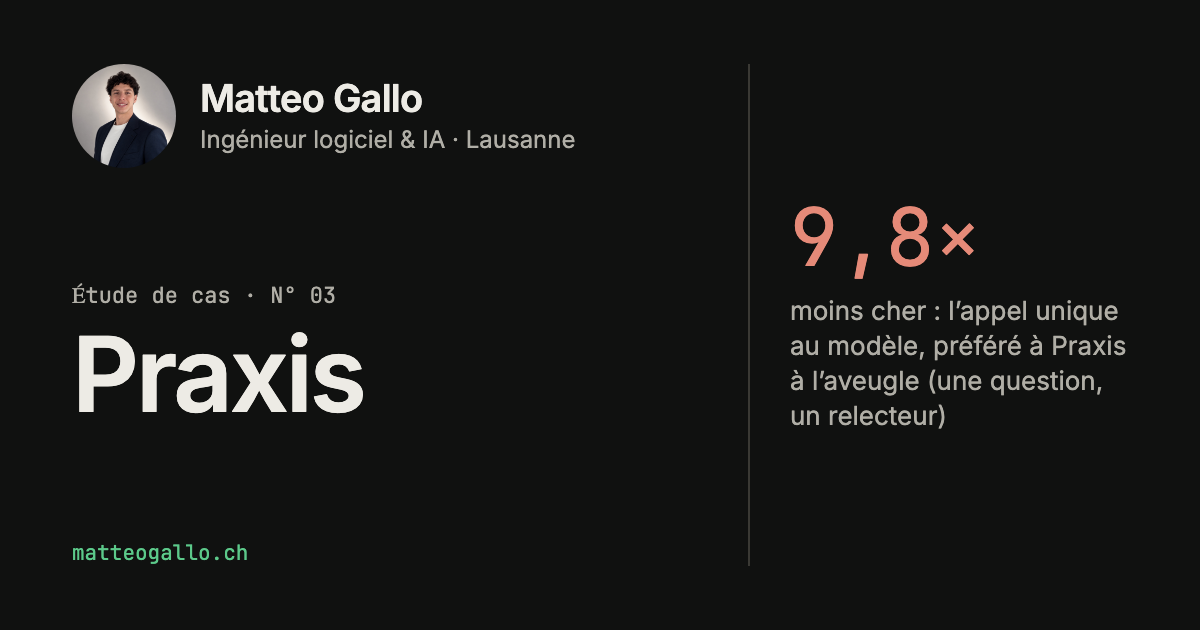
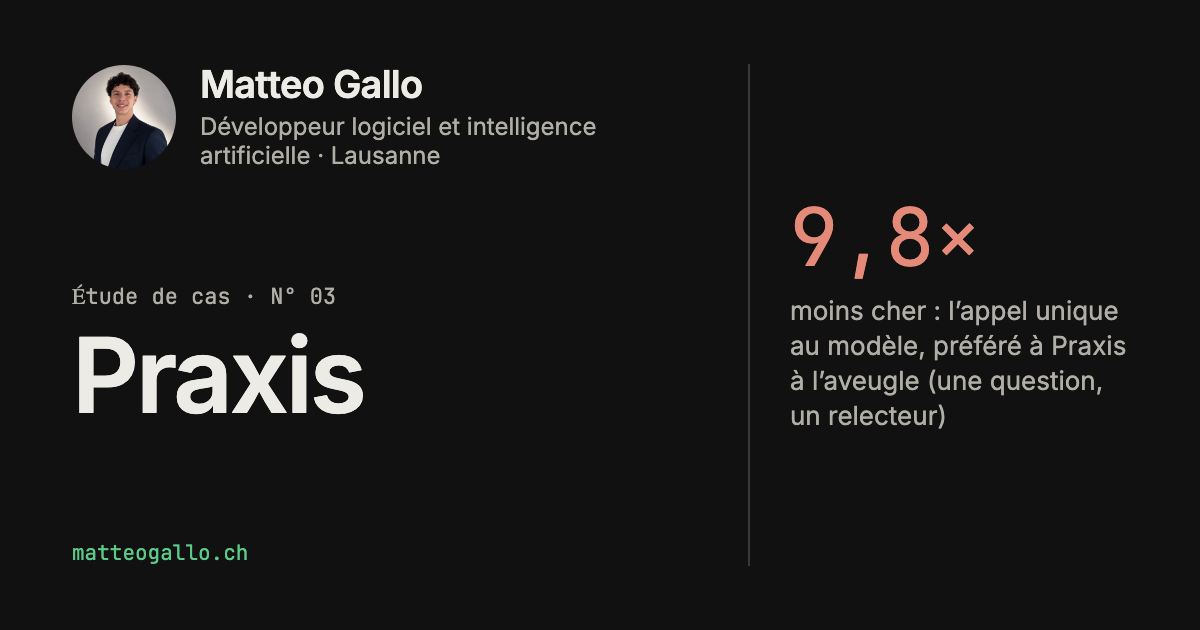
fix(copy): title becomes Software & AI Developer
"Ingénieur" implies a degree in French: the role, title, 404, JSON-LD,
bio, contact heading, meta description and OG images now say
"Développeur logiciel et intelligence artificielle" / "Software & AI
Developer", with the new promise, a specialty line and the new status.

The headline line budget follows the measured French promise (7 lines
at 1440 px, 8 at 375 px), and a new test keeps the hero's buttons in
the first screen at 1280x800. The OG headline is drawn at 44 px so the
French promise fits beside the figures. The French meta description
uses "logiciel et IA" to stay under 160 characters.

diff --git a/tests/home.spec.ts b/tests/home.spec.ts
@@ -8,11 +8,12 @@ import { plain } from "../scripts/typography.ts";
 const WORDS = {
   fr: {
     path: "/",
-    title: "Matteo Gallo — Ingénieur logiciel & IA",
-    description: "Matteo Gallo, ingénieur logiciel et IA à Lausanne. Je construis des systèmes à base de LLM et je mesure s'ils tiennent leurs promesses.",
-    role: "Ingénieur logiciel & IA · Lausanne",
-    status: "Disponible pour un poste",
-    h1: "Je construis des systèmes à base de LLM, et je mesure s'ils tiennent leurs promesses.",
+    title: "Matteo Gallo — Développeur logiciel et intelligence artificielle",
+    description: "Matteo Gallo, développeur logiciel et IA à Lausanne : automatisation des processus métier, des systèmes mesurés et publiés avec leurs défauts.",
+    role: "Développeur logiciel et intelligence artificielle · Lausanne",
+    specialty: "Automatisation des processus métier",
+    status: "Disponible pour des projets ou un poste",
+    h1: "Je conçois des logiciels et des systèmes d'IA qui automatisent les processus métier des entreprises, de la conception à la mise en production.",
     message: "Recherche documentaire qui cite ou refuse, langage typé pour prompts : chaque résultat publié avec sa preuve.",
     actions: ["Voir les projets", "Me contacter"],
     projects: [
@@ -32,7 +33,7 @@ const WORDS = {
       ["Évaluation pré-enregistrée", "Échantillon tiré avec une graine fixe et enregistré dans le dépôt avant l'annotation. Le résultat est publié tel quel, même défavorable : 12 signalements justes sur 40.", "PR promptlang#39"],
     ],
     bio: [
-      "Ingénieur logiciel et IA basé à Lausanne. Je construis des systèmes à base de LLM, avec leurs tests, leurs évaluations et leurs mesures publiées.",
+      "Développeur logiciel et intelligence artificielle basé à Lausanne. Je conçois des logiciels et des systèmes d'IA, avec leurs tests, leurs évaluations et leurs mesures publiées.",
       "Développement assisté par agents de code : je spécifie, je relis les PR et leurs tests, et je réponds de ce qui est fusionné.",
       "Formation d'automaticien à l'ETML (école des métiers), interrompue en deuxième année pour me consacrer au développement logiciel.",
       "Langues : français et italien (maternelles), anglais (intermédiaire), espagnol (notions).",
@@ -43,11 +44,12 @@ const WORDS = {
   },
   en: {
     path: "/en/",
-    title: "Matteo Gallo — Software & AI Engineer",
-    description: "Matteo Gallo, software and AI engineer in Lausanne. I build LLM systems and measure whether they deliver.",
-    role: "Software & AI Engineer · Lausanne",
-    status: "Available for a role",
-    h1: "I build LLM systems and measure whether they deliver.",
+    title: "Matteo Gallo — Software & AI Developer",
+    description: "Matteo Gallo, software and AI developer in Lausanne: business process automation, with systems measured and published with their defects.",
+    role: "Software & AI Developer · Lausanne",
+    specialty: "Business process automation",
+    status: "Available for projects or a role",
+    h1: "I build software and AI systems that automate business processes, from design to production.",
     message: "Document search that cites or refuses, a typed language for prompts: every result published with its proof.",
     actions: ["See the projects", "Get in touch"],
     projects: [
@@ -67,7 +69,7 @@ const WORDS = {
       ["Pre-registered evaluation", "Sample drawn with a fixed seed and committed before annotation. The result is published as is, even when unfavourable: 12 of 40 flags correct.", "PR promptlang#39"],
     ],
     bio: [
-      "Software and AI engineer based in Lausanne. I build LLM systems, with their tests, evaluations and published measurements.",
+      "Software and AI developer based in Lausanne. I build software and AI systems, with their tests, evaluations and published measurements.",
       "Built with coding agents: I write the specs, review the pull requests and their tests, and answer for what gets merged.",
       "I trained as an automation technician at ETML (vocational school) and left in the second year to focus on software.",
       "Languages: French and Italian (native), English (intermediate), Spanish (basic).",
@@ -87,11 +89,12 @@ for (const [lang, w] of Object.entries(WORDS)) {
     expect(plain(await page.title())).toBe(plain(w.title));
     expect(plain((await page.locator('meta[name="description"]').getAttribute("content")) ?? "")).toBe(w.description);
     expect(await texts(page, ".hero .role")).toEqual([w.role]);
+    expect(await texts(page, ".hero .specialty")).toEqual([w.specialty]);
     expect(await texts(page, ".hero .status")).toEqual([w.status]);
     expect(await texts(page, "h1")).toEqual([w.h1]);
-    // A recruiter may not read "LLM": its first use on the page says what it stands for.
-    await expect(page.locator("main abbr").first()).toHaveText("LLM");
-    await expect(page.locator("h1 abbr")).toHaveAttribute("title", lang === "fr" ? "grand modèle de langage" : "large language model");
+    // A recruiter may not read "LLM", and the home page no longer says it: bringing it back means
+    // an <abbr> saying what it stands for at its first use, and an assertion here for it.
+    expect(await page.locator("main").innerText()).not.toMatch(/\bLLM\b/);
     // Search results cut a description near 160 characters.
     expect(w.description.length).toBeLessThanOrEqual(160);
     expect(await texts(page, ".hero .message")).toEqual([w.message]);

diff --git a/tests/layout.spec.ts b/tests/layout.spec.ts
@@ -362,10 +362,12 @@ for (const width of [375, 1440]) {
   });
 }
 
-// The headline is the first thing read: at 7 lines on a 1440 px screen it pushed the message and
-// the buttons down. Lines are counted from the text's own boxes, not its height, once the site's
-// fonts are in: a narrower fallback would pass with fewer lines.
-for (const [width, most] of [[1440, 4], [375, 5]] as const) {
+// The headline is the first thing read. The budget is the measured length of the French promise,
+// a full sentence: 7 lines at 1440 px, 8 at 375 px; a longer one fails here, and the test below
+// keeps the buttons in the first screen whatever the headline's length. Lines are
+// counted from the text's own boxes, not its height, once the site's fonts are in: a narrower
+// fallback would pass with fewer lines.
+for (const [width, most] of [[1440, 7], [375, 8]] as const) {
   for (const path of ["/", "/en/"]) {
     test(`${path} at ${width} px: the headline holds in ${most} lines or fewer`, async ({ page }) => {
       await page.setViewportSize({ width, height: 900 });
@@ -380,4 +382,15 @@ for (const [width, most] of [[1440, 4], [375, 5]] as const) {
       expect(lines).toBeGreaterThan(0);
     });
   }
+}
+
+// Whatever the headline's length, the two buttons stay in the first screen of a common laptop.
+for (const path of ["/", "/en/"]) {
+  test(`${path} at 1280×800: the hero's buttons are in the first screen`, async ({ page }) => {
+    await page.setViewportSize({ width: 1280, height: 800 });
+    await page.goto(path);
+    await page.evaluate(() => document.fonts.ready);
+    const bottom = await page.locator(".hero .actions").evaluate((el) => el.getBoundingClientRect().bottom);
+    expect(bottom).toBeLessThanOrEqual(800);
+  });
 }

diff --git a/src/lib/og.ts b/src/lib/og.ts
@@ -11,16 +11,16 @@ export const OG = {
   /** The site's dark tokens: a light card disappears in a white feed (LinkedIn). */
   scheme: "dark",
   name: "Matteo Gallo",
-  role: { fr: "Ingénieur logiciel & IA · Lausanne", en: "Software & AI Engineer · Lausanne" },
+  role: { fr: "Développeur logiciel et intelligence artificielle · Lausanne", en: "Software & AI Developer · Lausanne" },
   fr: {
     file: "public/og.png",
-    headline: "Je construis des systèmes à base de LLM, et je mesure s’ils tiennent leurs promesses.",
-    alt: "Matteo Gallo, ingénieur logiciel et IA à Lausanne : « Je construis des systèmes à base de LLM, et je mesure s’ils tiennent leurs promesses. »",
+    headline: "Je conçois des logiciels et des systèmes d’IA qui automatisent les processus métier des entreprises, de la conception à la mise en production.",
+    alt: "Matteo Gallo, développeur logiciel et intelligence artificielle à Lausanne : « Je conçois des logiciels et des systèmes d’IA qui automatisent les processus métier des entreprises, de la conception à la mise en production. »",
   },
   en: {
     file: "public/og-en.png",
-    headline: "I build LLM systems and measure whether they deliver.",
-    alt: "Matteo Gallo, software and AI engineer in Lausanne: “I build LLM systems and measure whether they deliver.”",
+    headline: "I build software and AI systems that automate business processes, from design to production.",
+    alt: "Matteo Gallo, software and AI developer in Lausanne: “I build software and AI systems that automate business processes, from design to production.”",
   },
   /** The home page's project cards, drawn beside the headline: one figure each, as the card shows it. */
   figures: [

diff --git a/scripts/og.ts b/scripts/og.ts
@@ -71,7 +71,8 @@ function page(image: OgImage): string {
   img { width: 104px; height: 104px; border-radius: 50%; }
   .name { font-size: 38px; font-weight: 600; letter-spacing: var(--track-44); line-height: 1.1; }
   .role { font-size: 24px; color: var(--graphite); margin-top: 6px; }
-  h1 { margin: 0; font-size: 60px; font-weight: 600; letter-spacing: var(--track-68); line-height: 1.08; text-wrap: balance; }
+  /* 44 px: the home headline is a full sentence (142 characters in French) and must fit beside the figures. */
+  h1 { margin: 0; font-size: 44px; font-weight: 600; letter-spacing: var(--track-68); line-height: 1.1; text-wrap: balance; }
   h1.case-name { font-size: 104px; letter-spacing: var(--track-68); line-height: 1; margin-top: 12px; }
   .kind { font-family: "JetBrains Mono"; font-size: 22px; color: var(--graphite); }
   .site { font-family: "JetBrains Mono"; font-size: 21px; color: var(--proof-text); }

diff --git a/tests/seo.spec.ts b/tests/seo.spec.ts
@@ -232,7 +232,7 @@ for (const image of ogImages()) {
 
 // Search engines read who the site is about from a Person record on each home page. It is an
 // inline script like any other: the build hashes it into the security policy.
-for (const [path, jobTitle] of [["/", "Ingénieur logiciel & IA"], ["/en/", "Software & AI Engineer"]] as const) {
+for (const [path, jobTitle] of [["/", "Développeur logiciel et intelligence artificielle"], ["/en/", "Software & AI Developer"]] as const) {
   test(`${path}: a JSON-LD Person names the author, his role and profiles, and its hash is in the policy`, async ({ page }) => {
     await page.goto(path);
     const blocks = page.locator('script[type="application/ld+json"]');

diff --git a/tests/built-html.spec.ts b/tests/built-html.spec.ts
@@ -150,8 +150,8 @@ for (const file of files) {
 
 // M1: the French 404 names the role in French.
 test("404.html: the role reads in French", () => {
-  expect(html("404.html")).toContain("Matteo Gallo · Ingénieur logiciel &amp; IA");
-  expect(html("404.html")).not.toContain("Software &amp; AI Engineer");
+  expect(html("404.html")).toContain("Matteo Gallo · Développeur logiciel et intelligence artificielle");
+  expect(html("404.html")).not.toContain("Software &amp; AI Developer");
 });
 
 // D4: the English refusal rationale is the trace's own text, internal reference included; a short

diff --git a/scripts/gaps.test.ts b/scripts/gaps.test.ts
@@ -3,7 +3,7 @@ import { test } from "node:test";
 import { gapsIn } from "./gaps.ts";
 
 test("a page with no placeholder has no gap", () => {
-  assert.deepEqual(gapsIn('<h1>Matteo Gallo — Software &amp; AI Engineer</h1><p>Contact : <a href="mailto:a@b.c">a@b.c</a></p>'), []);
+  assert.deepEqual(gapsIn('<h1>Matteo Gallo — Software &amp; AI Developer</h1><p>Contact : <a href="mailto:a@b.c">a@b.c</a></p>'), []);
 });
 
 test("every placeholder form is reported, with its text", () => {

diff --git a/docs/SPEC.md b/docs/SPEC.md
@@ -4,7 +4,7 @@ The reference specification for this site: structure, visual system, content
 rules, technique and accessibility.
 
 ## 1. Goal and reader
-- **Reader:** a technical lead hiring a software/AI engineer, who decides within 30 seconds.
+- **Reader:** a technical lead or a company looking for a software/AI developer, who decides within 30 seconds.
 - **What the site does:** confirm, not sell. One screen answers who, what, the proof, and how to get in touch.
 - **Single message:** "I build AI products you can verify." Complete products, every measure published, defects included.
 - The site proves by demonstration, not by effect.
@@ -24,12 +24,12 @@ Plain text on the left, one strong visual on the right: Verity working on a cont
 ### 3.1 Home `/`
 1. **Navigation:** floating glass pill. Projects · Method · About, and the FR | EN selector; Writing joins it once an article exists. On the other pages the selector sits in the header.
 2. **First screen:** sober, readable by a recruiter in 30 seconds; no band of figures.
-   - Left, in small type: the **portrait** (56 px, round), the name, « Ingénieur logiciel & IA · Lausanne » / "Software & AI Engineer · Lausanne" and the status « Disponible pour un poste » / "Available for a role" (green dot). Then the headline, 32 px at 375 px to 38 px from 1440 px, in at most 5 lines at 375 px and 4 at 1440 px: « Je construis des systèmes à base de LLM, et je mesure s’ils tiennent leurs promesses. » (EN: "I build LLM systems and measure whether they deliver."), its « LLM » an `<abbr>` titled « grand modèle de langage » (“large language model”), the first on the page. Under it: « Recherche documentaire qui cite ou refuse, langage typé pour prompts : chaque résultat publié avec sa preuve. », and the buttons « Voir les projets » and « Me contacter » (“Get in touch”), the second leading to the contact section.
+   - Left, in small type: the **portrait** (56 px, round), the name, « Développeur logiciel et intelligence artificielle · Lausanne » / "Software & AI Developer · Lausanne", the specialty « Automatisation des processus métier » / "Business process automation" in the same small type, and the status « Disponible pour des projets ou un poste » / "Available for projects or a role" (green dot). Then the headline, 32 px at 375 px to 38 px from 1440 px, in at most 8 lines at 375 px and 7 at 1440 px, the buttons under it still in the first screen at 1280 × 800: « Je conçois des logiciels et des systèmes d’IA qui automatisent les processus métier des entreprises, de la conception à la mise en production. » (EN: "I build software and AI systems that automate business processes, from design to production."). Under it: « Recherche documentaire qui cite ou refuse, langage typé pour prompts : chaque résultat publié avec sa preuve. », and the buttons « Voir les projets » and « Me contacter » (“Get in touch”), the second leading to the contact section.
    - Right: the Verity demo (section 2).
 3. **Projects:** 2 cards (Verity, PromptLang; no calibre number), each with **a real screenshot or GIF** of the product and a one-line caption (« Démo enregistrée : … Voir le GIF ↗ »; the detail is in the alt text), one sentence opening with what the project is technically (no jargon left unexplained, except PromptLang's, which names its terms bare, as its case study's first sentence does: « Compilateur pour un langage typé de prompts : génère du code TypeScript et Python, publié sur npm. », EN "A compiler for a typed prompt language: generates TypeScript and Python, published on npm."), **one** figure linked to its proof and written with what it is compared with (a baseline, a sample size), and at the foot a secondary button « Lire l’étude de cas → » beside « Code sur GitHub ↗ ». Verity's figure is the pre-registered comparison with « la même chaîne sans contrôles » (“the same pipeline without checks”), its p kept on the case study; PromptLang's, its mutation score in whole percents with the number of mutants it is taken over. Limits and technologies live on the case studies. The whole card opens its case study (its title is the link, stretched over the card; the links it holds stay their own, above it); under the pointer it rises 2 px and its border darkens, and keyboard focus rings the whole card. The other figures stay on the case studies. Under the cards, a short « Expériences » (“Experiments”) list: one line per project whose result did not hold, linking to its case study and to the published result; Praxis's reads « Praxis — pipeline d’analyse en 7 étapes ; comparé à l’aveugle, sur une question, à un appel unique 9,8× moins cher : le relecteur a préféré l’appel unique. Résultat publié. » (EN: "Praxis — a 7-stage analysis pipeline; compared blind, on one question, with a single call 9.8× cheaper: the reviewer preferred the single call. Result published."), its two figures linked to their proof. Its case study stays, the result among its known limits.
 4. **Method:** 3 cards side by side with noun titles (« Audit à froid », « Lecture des sorties réelles », « Évaluation pré-enregistrée »; EN “Cold audit”: an AI agent the author ran, not an independent auditor), the real incident behind each in at most two sentences and the link to its PR. Link to the repository.
 5. **Writing:** dated list of published articles. The section is left out while none is published.
-6. **About and contact**, one closing section on two columns. Left, the bio in one block: role and city, how I work with coding agents, initial training, languages (what I am looking for is said once, by the contact on the right); then one personal line, set apart (« En dehors du code, j’assemble des montres Seiko personnalisées et je joue du piano. »). Right: "Un poste d'ingénieur logiciel et IA en Suisse romande ? Écrivez-moi.", the e-mail in large type, LinkedIn and GitHub as buttons. No form.
+6. **About and contact**, one closing section on two columns. Left, the bio in one block: role and city, how I work with coding agents, initial training, languages (what I am looking for is said once, by the contact on the right); then one personal line, set apart (« En dehors du code, j’assemble des montres Seiko personnalisées et je joue du piano. »). Right: « Un projet à automatiser ou un poste en Suisse romande ? Écrivez-moi. », the e-mail in large type, LinkedIn and GitHub as buttons. No form.
 7. **Footer:** the site's own measures (weight, Lighthouse, build date, commit), generated by CI. Link to the Colophon.
 
 ### 3.2 Case studies `/projets/<slug>`
@@ -46,7 +46,7 @@ How the site is built: stack, budgets, real measures, accessibility choices, wha
 
 ## 4. Visual system
 - **Type:** Inter (headings and body; no optical-size axis, the display look of headings comes from the negative tracking), Source Serif 4 at 400 and 600 (only the demo contract and quotes, loaded only by the pages that declare it; renamed "Site Serif" inside the font files because "Source" is a Reserved Font Name under the OFL), JetBrains Mono at 400 (measures, traces). Self-hosted strict subsets, built by `scripts/fonts/subset.py` from pinned upstream releases.
-- **Scale:** 12 · 14 · 16 · 21 · 28 · 44 · 68 px. Negative tracking on large headings. The home headline alone is fluid, between 32 and 38 px (§3.1): at 68 px its French text took 7 lines.
+- **Scale:** 12 · 14 · 16 · 21 · 28 · 44 · 68 px. Negative tracking on large headings. The home headline alone is fluid, between 32 and 38 px (§3.1): at 68 px a French sentence of half its length already took 7 lines.
 - **Colours:** paper `#F5F4F0`, ink `#111111`, graphite `#52524E` (7:1 on the paper), rules `#DAD8D2`, proof `#1E8A4C`/`#17703D`, defect `#A8382A`, night blue `#1C2A44`. Automatic dark mode (`prefers-color-scheme`, no toggle): paper `#101110`, cards and demo on the sheet `#1D1E1B` with a 1 px rule, graphite `#B0AEA6`. Body and secondary text at 7:1 or more, accents at 4.5:1, on the paper and the sheet, in both modes (contrast.test.ts).
 - **Grid:** 12 columns, 24 px gutter, 1200 px container. Dotted vertical rules, "+" marks between sections, numbered sections.
 - **Glass:** only the navigation, the spotlight's ring and the answer card. Frosted glass everywhere; SVG refraction as progressive enhancement (Chromium); opaque version under `prefers-reduced-transparency`. Text on glass only over a known, controlled background.

diff --git a/docs/CLAIMS.md b/docs/CLAIMS.md
@@ -88,7 +88,7 @@ magnifier and answer-writing rows as worded now by https://github.com/matteogall
 | A FR \| EN selector in the home navigation and in every other page's header leads to the same page in the other language without JavaScript (the 404s lead to the other home) | `src/components/LangSwitch.astro` | `tests/seo.spec.ts`, `tests/states.spec.ts`, `scripts/gaps.test.ts` | shipped |
 | No French word or accent appears in the text, labels or metadata of an English page outside an element marked `lang="fr"` | `src/pages/en/`, `src/components/` | `tests/en.spec.ts` (with a self-test on an injected French sentence) | shipped |
 | Each language's link preview shows that language's home headline beside the figure of each project card, as the card shows it: `og.png` for French pages, `og-en.png` for English ones; a case study shows its own image instead (`og/<case>[-en].png`): its name and number beside the first figure of its brief, with that brief's caption, and an `og:image:alt` that says the same | `src/lib/og.ts`, `scripts/og.ts`, `src/data/og.json` | `tests/seo.spec.ts`, `scripts/og.test.ts` | local |
-| The home page shows its owner's words verbatim (title, description, role, headline, project sentences, figures and limits, method, bio, demo caption and tabs), in French and in English; no band of figures, no project number, no bio toggle | `src/components/Home.astro`, `src/components/Projects.astro`, `src/components/Bio.astro`, `src/components/VerityDemo.astro` | `tests/home.spec.ts` | local |
+| The home page shows its owner's words verbatim (title, description, role, specialty, status, headline, project sentences, figures and limits, method, bio, demo caption and tabs), in French and in English; no band of figures, no project number, no bio toggle | `src/components/Home.astro`, `src/components/Projects.astro`, `src/components/Bio.astro`, `src/components/VerityDemo.astro` | `tests/home.spec.ts` | local |
 | Every figure on the home page resolves in `measures.json` and links to its proof at a pinned commit; a figure shown in words (« 12 signalements justes sur 40 ») shows only the measure's own numbers, or the build fails; no other number appears outside the demo's run, section ordinals, versions and identifiers | `src/components/Figure.astro` | `tests/home.spec.ts` | local |
 | The French home page shows no English a reader sees: the run's English and the contract are folded (`lang="en"`, closed `<details>`), the passages shown are French translations bound to the contract's text at the trace's offsets (else the build fails) | `src/components/VerityDemo.astro`, `src/data/demo/passages.json` | `tests/home.spec.ts` | local |
 | Body and secondary text reach 7:1 and accents 4.5:1 on the paper and on the sheet, in light and dark mode; dark cards and the demo lie on a sheet distinct from the paper | `src/styles/tokens.css`, `src/styles/global.css` | `src/styles/contrast.test.ts` | local |

diff --git a/CLAUDE.md b/CLAUDE.md
@@ -2,7 +2,7 @@
 
 ## What this is
 
-The personal site of Matteo Gallo, Software & AI Engineer: a static Astro site
+The personal site of Matteo Gallo, Software & AI Developer: a static Astro site
 (TypeScript strict, zero JS by default) deployed on Cloudflare Pages. `docs/SPEC.md`
 is the reference specification: read it in full before changing anything; it takes
 precedence over habits. Every figure the site shows comes from `src/data/measures.json`
@@ -87,7 +87,8 @@ tests/                   Playwright on every built page: axe (light + dark), key
                          built-html.spec.ts: rules read on the built HTML (inline code, diagram descriptions, translations,
                          English calques, French and English typography);
                          layout.spec.ts: rules measured at given widths (e-mail line, contact and footer, demo tabs and
-                         cards, project grid, case-study layout, touch targets, figure names, focus ring, text-wrap);
+                         cards, project grid, case-study layout, touch targets, figure names, focus ring, text-wrap,
+                         home headline lines, hero buttons in the first screen at 1280×800);
                          states.spec.ts: hover, focus, transitions and cursor of every interactive element (home,
                          case studies, both languages), project cards opening their case study, the measures fold
 scripts/site-measures*   Lighthouse CI output -> site-measures.json (weight, scores, date, commit)

diff --git a/AGENTS.md b/AGENTS.md
@@ -2,7 +2,7 @@
 
 ## What this is
 
-The personal site of Matteo Gallo, Software & AI Engineer: a static Astro site
+The personal site of Matteo Gallo, Software & AI Developer: a static Astro site
 (TypeScript strict, zero JS by default) deployed on Cloudflare Pages. `docs/SPEC.md`
 is the reference specification: read it in full before changing anything; it takes
 precedence over habits. Every figure the site shows comes from `src/data/measures.json`

diff --git a/README.md b/README.md
@@ -1,6 +1,6 @@
 # matteogallo — personal site
 
-The personal site of Matteo Gallo, Software & AI Engineer. Static
+The personal site of Matteo Gallo, Software & AI Developer. Static
 [Astro](https://astro.build) site. The full specification is [`docs/SPEC.md`](docs/SPEC.md);
 what is proven by which check is in [`docs/CLAIMS.md`](docs/CLAIMS.md).
 
